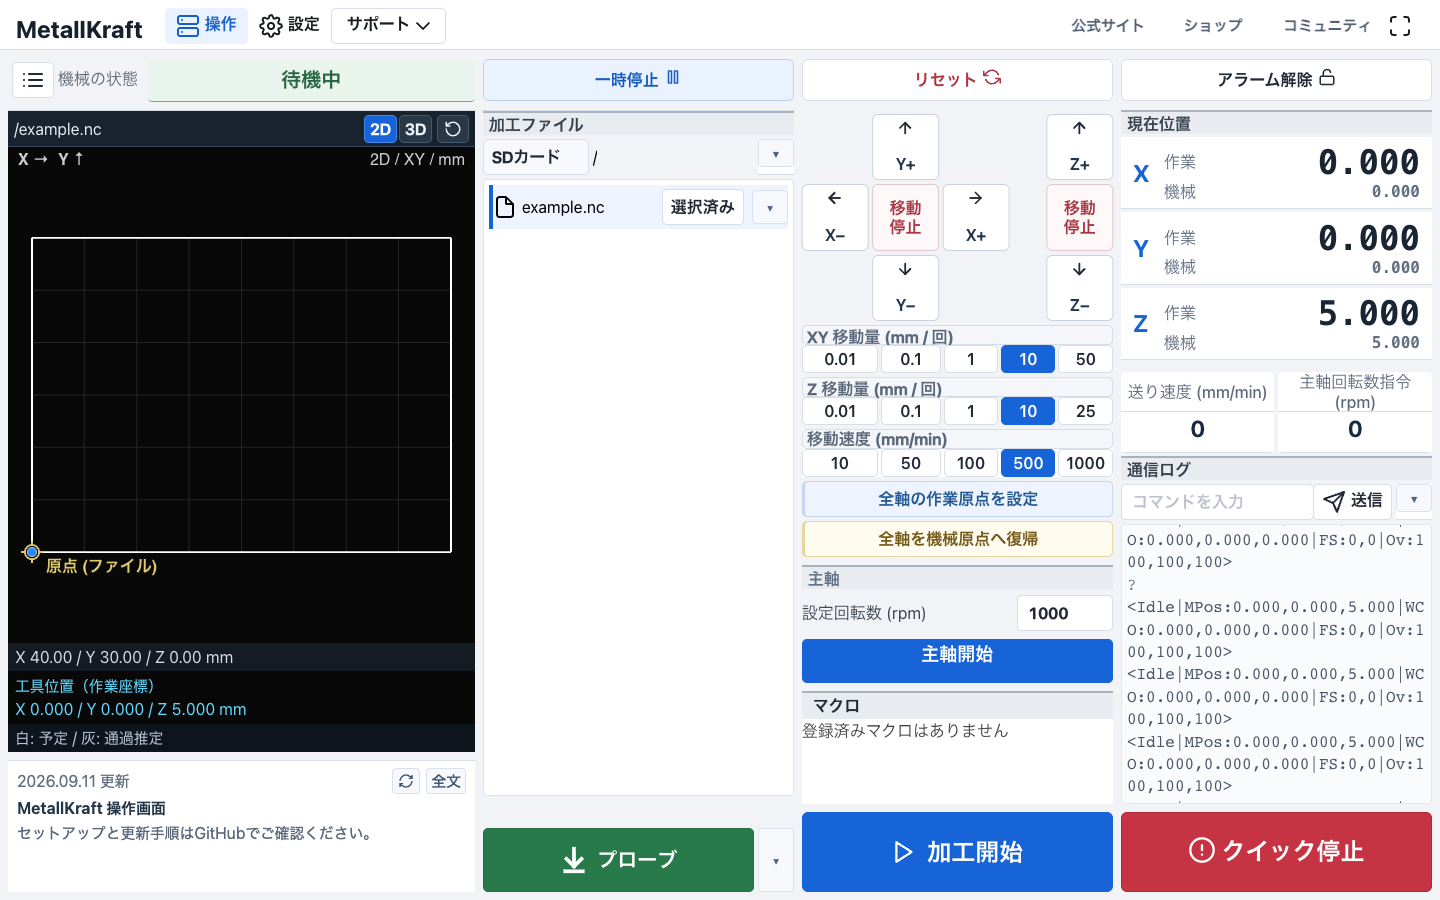
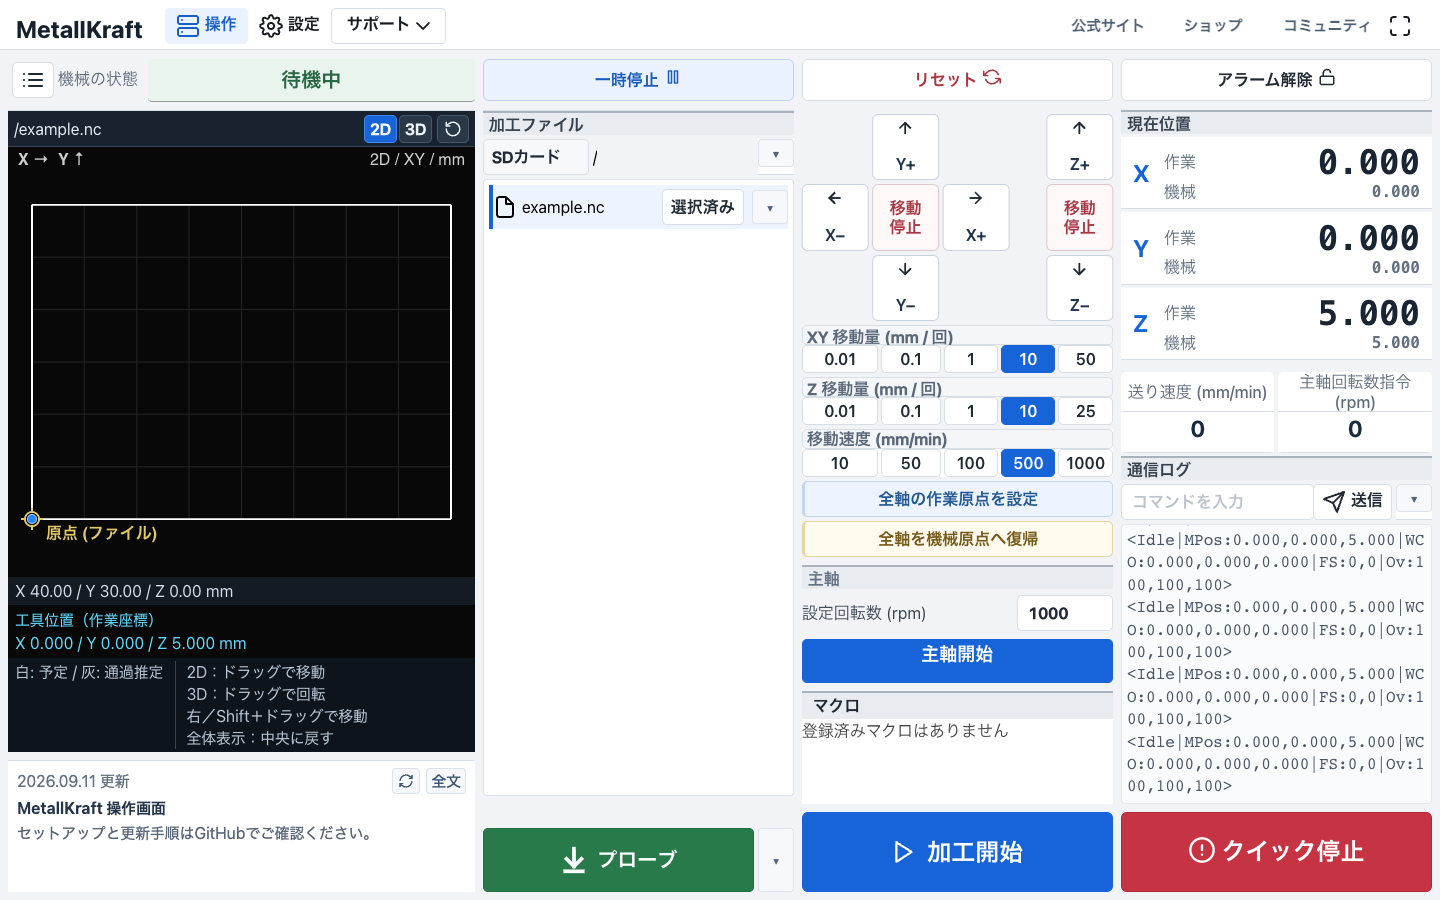
Show concise preview gesture help beside path legend

Changed region(s): [[0.0, 0.56, 0.3438, 0.84], [0.7812, 0.5911, 1.0, 0.6533]]

diff --git a/standard/metallkraft-preview.html b/standard/metallkraft-preview.html
@@ -86,6 +86,10 @@ html#mk-preview-document, #mk-preview-document body { margin:0 !important; paddi
 </style>
 <style>
 #mk-preview-document :is(#cancel-preview,#zoom-in,#zoom-out) { display:none; }
+#mk-preview-document body { grid-template-rows:36px minmax(60px,1fr) 28px auto auto; }
+#mk-preview-document #preview-footer { display:grid; grid-template-columns:auto minmax(0,1fr); gap:12px; white-space:normal; overflow:visible; align-items:start; }
+#preview-help { border-left:1px solid #364455; padding-left:10px; }
+#preview-help span { display:block; overflow-wrap:anywhere; }
 @media (max-width:500px) {
   #mk-preview-document header { grid-template-columns:minmax(0,1fr) 70px 30px; grid-template-rows:28px; }
   #mk-preview-document #preview-filename { grid-area:1 / 1; }
@@ -111,7 +115,7 @@ html#mk-preview-document, #mk-preview-document body { margin:0 !important; paddi
 <div id="preview-empty"><strong>加工ファイルを選択してください</strong><span>SDカードの一覧でファイルを選ぶと<br>ここに加工予定経路が表示されます</span></div>
 <p id="preview-info" data-state="" role="status"></p>
 <div id="tool-position-readout" title="基板が報告する工具先端の座標です。実測位置ではありません。"><span id="tool-position-state">工具位置: 座標確認待ち</span><span id="tool-position-values"></span></div>
-<footer id="limitations">予定経路 / 衝突判定なし</footer>
+<footer id="preview-footer"><span id="limitations">予定経路 / 衝突判定なし</span><span id="preview-help"><span>2D：ドラッグで移動</span><span>3D：ドラッグで回転</span><span>右／Shift＋ドラッグで移動</span><span>全体表示：中央に戻す</span></span></footer>
 <script>/* PREVIEW_SCRIPT */</script>
 </body>
 </html>

diff --git a/docs/UPDATE.md b/docs/UPDATE.md
@@ -2,6 +2,10 @@
 
 [トップへ](../README.md)
 
+## v0.1.7からv0.1.8へ
+
+停止・バックアップ後に`metallkraft-preview.html.gz`だけを上書きして再読み込みします。設定や通信処理の変更はありません。
+
 ## v0.1.6からv0.1.7へ
 
 `metallkraft-preview.html.gz`だけを更新します。機械と主軸を停止し、元ファイルをバックアップしてからFlash直下へ上書きし、画面を再読み込みします。通信処理・YAML・登録マクロは変更しません。

diff --git a/CHANGELOG.md b/CHANGELOG.md
@@ -1,5 +1,9 @@
 # 変更履歴
 
+## v0.1.8 / 2026-09-11
+
+- 経路の凡例の右に2D・3Dのドラッグ操作と全体表示の短い説明を追加。プレビューのHTML・CSSのみ変更。
+
 ## v0.1.7 / 2026-09-11
 
 - プレビューに平行移動を追加。2Dはドラッグ、3Dは右ドラッグ・中ボタンドラッグ・Shift＋ドラッグ。通常の3Dドラッグ回転は維持。
